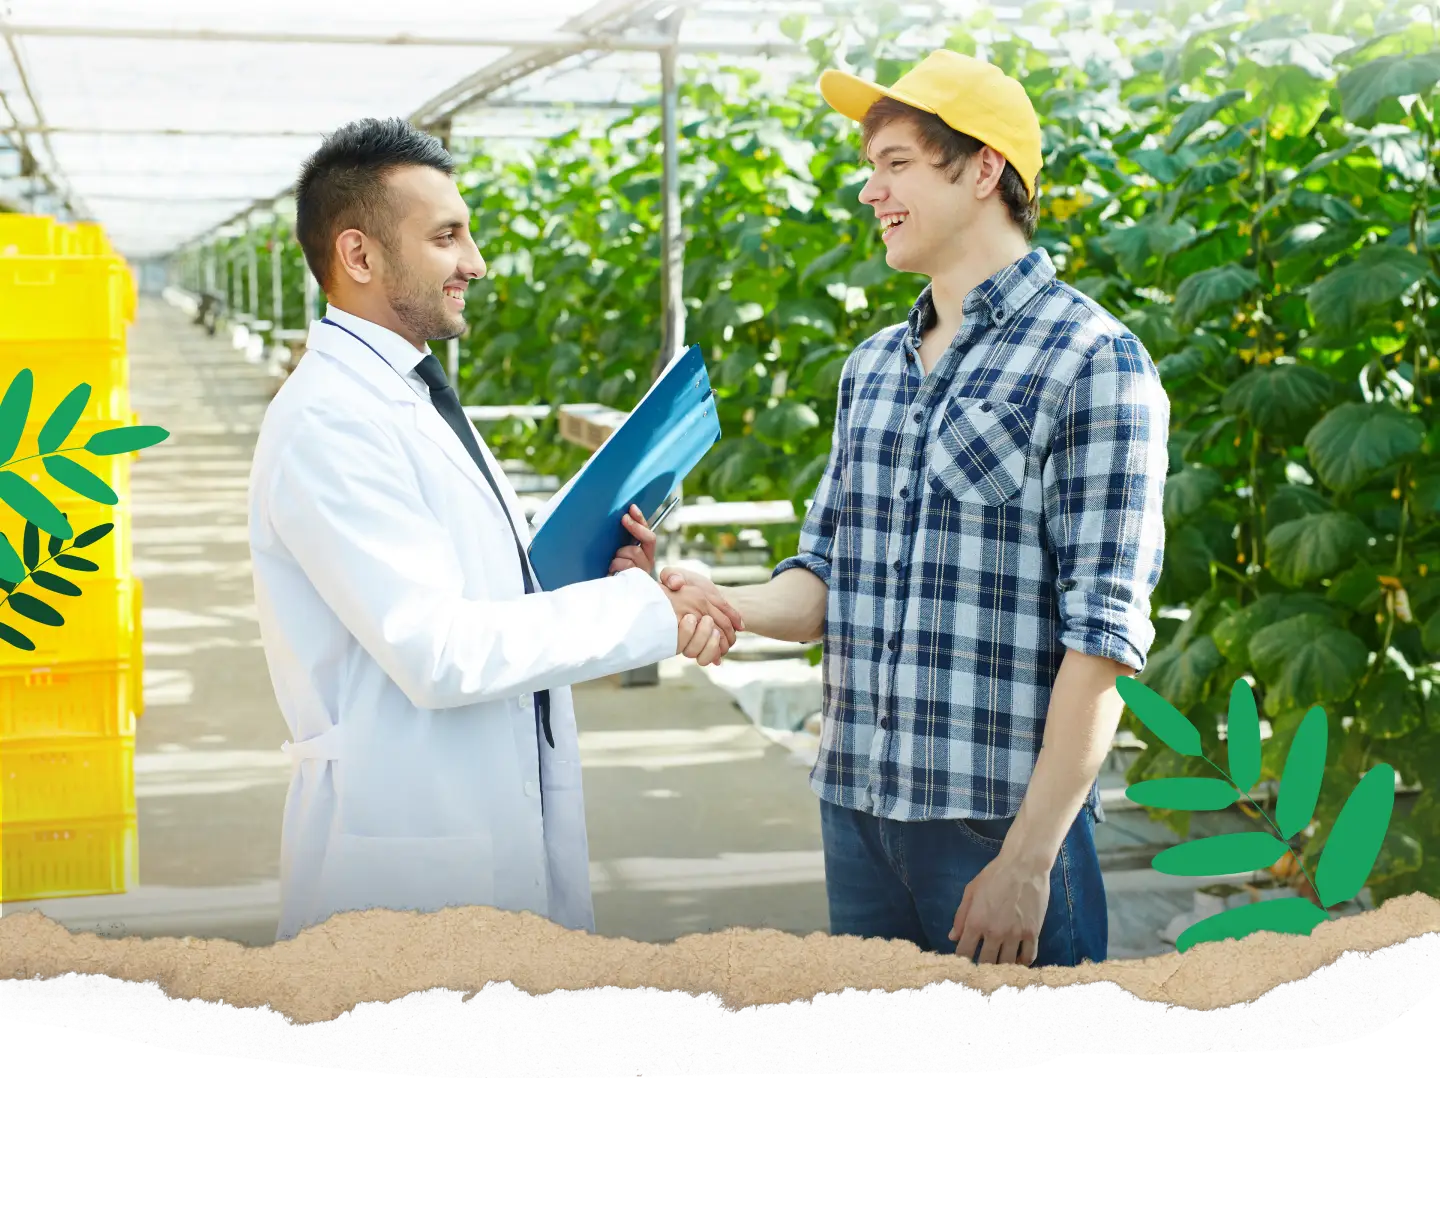
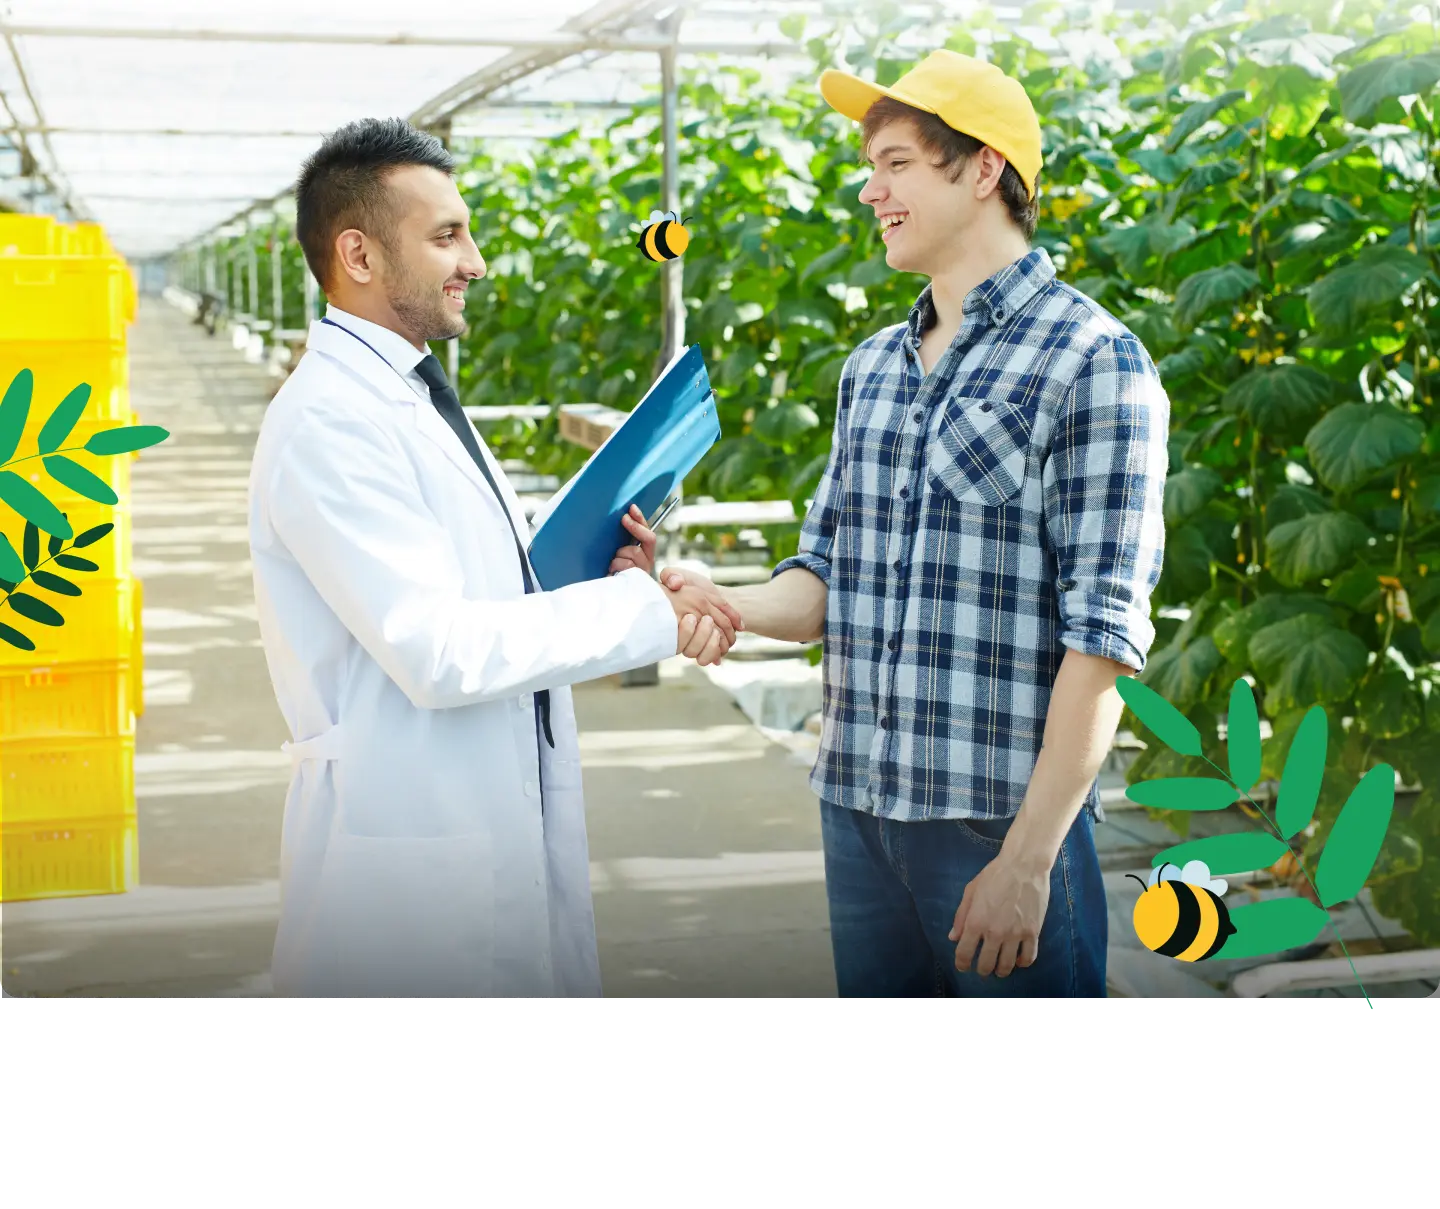
animations

diff --git a/mission.html b/mission.html
@@ -10,6 +10,7 @@
     <!--<link rel="stylesheet" href="https://cdn.jsdelivr.net/npm/swiper@8/swiper-bundle.min.css"/> -->
     <link rel="stylesheet" href="hhtps://cdnjs.cloudflare.com/ajax/libs/animate.css/4.1.1/animate.min.css" />
     <link href="style.css" rel="stylesheet" type="text/css" />
+    <script src="https://cdnjs.cloudflare.com/ajax/libs/bodymovin/5.9.6/lottie.min.js"></script>
 </head>
 
 <body class="d-flex flex-column min-vh-100">
@@ -71,8 +72,9 @@
     </div>
 </nav>
 
-<div id="panel-mission">
-    <img class="w-100" src="src/prova.copertina.webp">
+<div id="panel-mission" class="d-grid">
+    <div id="animation-container"></div>
+    <img id="sfondo" class="w-100" src="src/prova.copertina.webp">
     <div class="content">
         <h1>I nostri ideali</h1>
     </div>
@@ -451,6 +453,17 @@
     });
     $('#btn5-timeline').click(function () {
         animateCard(5);
+    });
+</script>
+
+<script>
+    const animation = bodymovin.loadAnimation({
+        container: document.getElementById('animation-container'),
+        path: 'src/prova_desktop-mission.json',
+        renderer: 'svg',
+        loop: true,
+        autoplay: true,
+        name: "Demo Animation",
     });
 </script>
 </body>

diff --git a/style.css b/style.css
@@ -175,7 +175,7 @@ b, h2, h5{
     color: white !important;
 }
 .right-spacing {
-    margin-right: 1.5vw;
+    margin-right: 1vw;
 }
 #footer-logo, #icons {
     margin-top: 7vw;    /*margine di default*/
@@ -186,12 +186,18 @@ b, h2, h5{
         margin-top: 10vw;
     }
 }
-@media screen and (min-width: 768px) {
-    .right-spacing{
-       margin-right: 1vw;
+@media screen and (max-width: 768px) {
+    footer .row {
+        margin-top: 20vw;
+    }
+    #footer-logo{
+        margin-bottom: 6vw !important;
+    }
+    #icons{
+        margin-top: 2vw;
+        margin-bottom: 9vw !important;
     }
 }
-
 
 
 /* Swiper */
@@ -316,6 +322,25 @@ b, h2, h5{
 }
 
 /*Mission*/
+#sfondo{
+
+    height: 50vh;
+    object-fit: cover;
+    object-position: top;
+}
+#panel-mission img{
+    grid-column-start: 1;
+    grid-column-end: 1;
+    grid-row-start: 1;
+    grid-row-end: 1;
+}
+#animation-container{
+    height: 50vh;
+    grid-column-start: 1;
+    grid-column-end: 1;
+    grid-row-start: 1;
+    grid-row-end: 1;
+}
 
 #container-des{
     display: grid;
